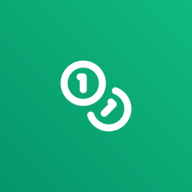
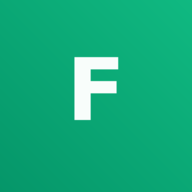
Update app branding and dashboard UI to Felix Network
Replaces all instances of "CashFlow" with "Felix Network" across the UI, updates app icons and logos, removes USD conversion and withdrawal goal from the dashboard, adds a network rank system, and introduces a daily reward section.

Replit-Commit-Author: Agent
Replit-Commit-Session-Id: b8f8f2ea-1e4f-4fec-b09c-0da8768f89b5
Replit-Commit-Checkpoint-Type: full_checkpoint
Replit-Commit-Event-Id: 87573452-b191-4e64-82ae-d17f2248d744
Replit-Commit-Screenshot-Url: https://storage.googleapis.com/screenshot-production-us-central1/0c0255b0-0179-4582-8346-503e3306424b/b8f8f2ea-1e4f-4fec-b09c-0da8768f89b5/lPYRyeK

Changed region(s): [[0.3125, 0.2812, 0.6875, 0.6875]]

diff --git a/client/index.html b/client/index.html
@@ -3,25 +3,25 @@
   <head>
     <meta charset="UTF-8" />
     <meta name="viewport" content="width=device-width, initial-scale=1.0, maximum-scale=1" />
-    <title>CashFlow – Earn • Grow • Reward</title>
-    <meta name="description" content="Watch ads, earn rewards, grow your income daily with CashFlow. Fast, simple, and mobile-friendly." />
+    <title>Felix Network – Earn • Grow • Reward</title>
+    <meta name="description" content="Watch ads, earn rewards, grow your income daily with Felix Network. Fast, simple, and mobile-friendly." />
 
     <!-- Open Graph -->
     <meta property="og:type" content="website" />
     <meta property="og:url" content="https://ad-coin-rewards.vercel.app/" />
-    <meta property="og:title" content="CashFlow – Earn • Grow • Reward" />
-    <meta property="og:description" content="Watch ads, earn rewards, grow your income daily with CashFlow. Fast, simple, and mobile-friendly." />
+    <meta property="og:title" content="Felix Network – Earn • Grow • Reward" />
+    <meta property="og:description" content="Watch ads, earn rewards, grow your income daily with Felix Network. Fast, simple, and mobile-friendly." />
     <meta property="og:image" content="https://ad-coin-rewards.vercel.app/og-banner.jpg" />
     <meta property="og:image:secure_url" content="https://ad-coin-rewards.vercel.app/og-banner.jpg" />
     <meta property="og:image:width" content="1200" />
     <meta property="og:image:height" content="630" />
     <meta property="og:image:type" content="image/jpeg" />
-    <meta property="og:site_name" content="CashFlow" />
+    <meta property="og:site_name" content="Felix Network" />
 
     <!-- Twitter / X -->
     <meta name="twitter:card" content="summary_large_image" />
-    <meta name="twitter:title" content="CashFlow – Earn • Grow • Reward" />
-    <meta name="twitter:description" content="Watch ads, earn rewards, grow your income daily with CashFlow. Fast, simple, and mobile-friendly." />
+    <meta name="twitter:title" content="Felix Network – Earn • Grow • Reward" />
+    <meta name="twitter:description" content="Watch ads, earn rewards, grow your income daily with Felix Network. Fast, simple, and mobile-friendly." />
     <meta name="twitter:image" content="https://ad-coin-rewards.vercel.app/og-banner.jpg" />
 
     <link rel="icon" type="image/png" href="/favicon.png" />
@@ -30,11 +30,11 @@
     <meta name="mobile-web-app-capable" content="yes" />
     <meta name="apple-mobile-web-app-capable" content="yes" />
     <meta name="apple-mobile-web-app-status-bar-style" content="black-translucent" />
-    <meta name="apple-mobile-web-app-title" content="CashFlow" />
+    <meta name="apple-mobile-web-app-title" content="Felix Network" />
     <link rel="apple-touch-icon" href="/icon-192.png" />
     <link rel="preconnect" href="https://fonts.googleapis.com">
     <link rel="preconnect" href="https://fonts.gstatic.com" crossorigin>
-    <link href="https://fonts.googleapis.com/css2?family=Architects+Daughter&family=DM+Sans:ital,opsz,wght@0,9..40,100..1000;1,9..40,100..1000&family=Fira+Code:wght@300..700&family=Geist+Mono:wght@100..900&family=Geist:wght@100..900&family=IBM+Plex+Mono:ital,wght@0,100;0,200;0,300;0,400;0,500;0,600;0,700;1,100;1,200;1,300;1,400;1,500;1,600;1,700&family=IBM+Plex+Sans:ital,wght@0,100..700;1,100..700&family=Inter:ital,opsz,wght@0,14..32,100..900;1,14..32,100..900&family=JetBrains+Mono:ital,wght@0,100..800;1,100..800&family=Libre+Baskerville:ital,wght@0,400;0,700;1,400&family=Lora:ital,wght@0,400..700;1,400..700&family=Merriweather:ital,opsz,wght@0,18..144,300..900;1,18..144,300..900&family=Montserrat:ital,wght@0,100..900;1,100..900&family=Open+Sans:ital,wght@0,300..800;1,300..800&family=Outfit:wght@100..900&family=Oxanium:wght@200..800&family=Playfair+Display:ital,wght@0,400..900;1,400..900&family=Plus+Jakarta+Sans:ital,wght@0,200..800;1,200..800&family=Poppins:ital,wght@0,100;0,200;0,300;0,400;0,500;0,600;0,700;0,800;0,900;1,100;1,200;1,300;1,400;1,500;1,600;1,700;1,800;1,900&family=Roboto+Mono:ital,wght@0,100..700;1,100..700&family=Roboto:ital,wght@0,100..900;1,100..900&family=Source+Code+Pro:ital,wght@0,200..900;1,200..900&family=Source+Serif+4:ital,opsz,wght@0,8..60,200..900;1,8..60,200..900&family=Space+Grotesk:wght@300..700&family=Space+Mono:ital,wght@0,400;0,700;1,400;1,700&display=swap" rel="stylesheet">
+    <link href="https://fonts.googleapis.com/css2?family=Architects+Daughter&family=DM+Sans:ital,opsz,wght@0,9..40,100..1000;1,9..40,100..1000&family=Fira+Code:wght@300..700&family=Geist+Mono:wght@100..900&family=Geist:wght@100..900&family=IBM+Plex+Mono:ital,wght@0,100;0,200;0,300;0,400;0,500;0,600;0,700;1,100;1,200;1,300;1,400;1,500;1,600;1,700&family=IBM+Plex+Sans:ital,wght@0,100..700;1,100..700&family=Inter:ital,opsz,wght@0,14..32,100..900;1,14..32,100..900&family=JetBrains+Mono:ital,wght@0,100..800;1,100..800&family=Libre+Baskerville:ital,wght@0,400;0,700;1,400&family=Lora:ital,wght@0,400..700;1,400..700&family=Merriweather:ital,opsz,wght@0,18..144,300..900;1,18..144,300..900&family=Montserrat:ital,wght@0,100..900;1,100..900&family=Open+Sans:ital,wght@0,300..800;1,300..800&family=Outfit:wght@100..900&family=Oxanium:wght@200..800&family=Playfair+Display:ital,wght@0,400..900;1,400..900&family=Plus+Jakarta+Sans:ital,wght@0,200..800;1,200..800&family=Poppins:ital,wght@0,100;0,200;0,300;0,400;0,500;0,600;0,700;0,800;0,900;1,100;1,200;1,300;1,400;1,500;1,600;1,700;1,800;1,900&family=Roboto+Mono:ital,wght@0,100..700;1,100..700&family=Roboto:ital,wght@0,100..900;1,100..900&family=Source+Code+Pro:ital,opsz,wght@0,200..900;1,200..900&family=Source+Serif+4:ital,opsz,wght@0,8..60,200..900;1,8..60,200..900&family=Space+Grotesk:wght@300..700&family=Space+Mono:ital,wght@0,400;0,700;1,400;1,700&display=swap" rel="stylesheet">
   </head>
   <body>
     <div id="root"></div>

diff --git a/client/src/pages/dashboard.tsx b/client/src/pages/dashboard.tsx
@@ -26,6 +26,8 @@ import {
   ShoppingCart,
   UserCircle,
   Download,
+  Globe,
+  Gift,
 } from "lucide-react";
 import { UserAvatar } from "@/components/user-avatar";
 import { InstallGuideModal } from "@/components/pwa-install-banner";
@@ -142,11 +144,17 @@ export default function Dashboard() {
 
   if (!user) return null;
 
-  const usdtEquivalent = (user.coins / 1000).toFixed(2);
-  const progressToWithdraw = Math.min((user.coins / 10000) * 100, 100);
   const referralLink = `${window.location.origin}/register?ref=${user.referralCode}`;
 
-const shareMessage = `Join CASH FLOW and start mining coins with me! Use my referral link: ${referralLink}`;
+  const getNetworkRank = (coins: number) => {
+    if (coins >= 100000) return { emoji: "💎", label: "Diamond Member" };
+    if (coins >= 50000) return { emoji: "🥇", label: "Gold Member" };
+    if (coins >= 10000) return { emoji: "🥈", label: "Silver Member" };
+    return { emoji: "🥉", label: "Bronze Member" };
+  };
+  const rank = getNetworkRank(user.coins);
+
+const shareMessage = `Join Felix Network and start mining coins with me! Use my referral link: ${referralLink}`;
 
 const whatsappShare = () => {
   window.open(
@@ -160,7 +168,7 @@ const telegramShare = () => {
     `https://t.me/share/url?url=${encodeURIComponent(
       referralLink
     )}&text=${encodeURIComponent(
-      "Join CASH FLOW and start mining with me!"
+      "Join Felix Network and start mining with me!"
     )}`,
     "_blank"
   );
@@ -298,24 +306,17 @@ const telegramShare = () => {
             </div>
 
             <div className="inline-block px-3 py-1 bg-black/20 rounded-full text-sm font-medium text-white/90 backdrop-blur-sm">
-              ≈ ${usdtEquivalent} USDT
+              🪙 Coins
             </div>
           </div>
 
-          <div className="w-full md:w-1/3 bg-black/20 rounded-2xl p-4 backdrop-blur-sm">
-            <div className="flex justify-between text-sm text-white/80 mb-2">
-              <span>Withdrawal Goal</span>
-              <span>10K Coins</span>
+          <div className="bg-black/20 rounded-2xl p-4 backdrop-blur-sm text-center min-w-[148px]">
+            <div className="flex items-center justify-center gap-1.5 text-sm text-white/80 mb-3">
+              <Globe className="w-4 h-4" />
+              <span>Network Rank</span>
             </div>
-
-            <div className="h-2 w-full bg-black/40 rounded-full overflow-hidden">
-              <motion.div
-                initial={{ width: 0 }}
-                animate={{ width: `${progressToWithdraw}%` }}
-                transition={{ duration: 1, delay: 0.5 }}
-                className="h-full bg-accent rounded-full"
-              />
-            </div>
+            <div className="text-3xl mb-1.5">{rank.emoji}</div>
+            <div className="text-sm font-bold text-white">{rank.label}</div>
           </div>
         </div>
       </motion.div>
@@ -360,6 +361,18 @@ const telegramShare = () => {
             </>
           )}
         </div>
+      </div>
+
+      {/* Daily Reward */}
+      <div className="glass-card rounded-3xl p-5 mb-6 flex items-center gap-4">
+        <div className="w-12 h-12 bg-amber-500/20 rounded-2xl flex items-center justify-center text-amber-400 shrink-0">
+          <Gift className="w-6 h-6" />
+        </div>
+        <div className="flex-1">
+          <h3 className="font-semibold text-base">Daily Reward</h3>
+          <p className="text-sm text-muted-foreground">Login daily to earn rewards</p>
+        </div>
+        <div className="text-2xl">🎁</div>
       </div>
 
       <div className="space-y-4">

diff --git a/client/src/pages/whitepaper.tsx b/client/src/pages/whitepaper.tsx
@@ -11,8 +11,8 @@ const sections = [
   {
     icon: Coins,
     color: "text-amber-400 bg-amber-400/10",
-    title: "The CashFlow Solution",
-    body: "CashFlow is a reward-sharing platform that puts the value back in users' hands. Every time a user watches a sponsored ad, the platform shares a portion of the ad revenue directly with them in the form of coins. No surveys, no data selling — just watch and earn.",
+    title: "The Felix Network Solution",
+    body: "Felix Network is a reward-sharing platform that puts the value back in users' hands. Every time a user watches a sponsored ad, the platform shares a portion of the ad revenue directly with them in the form of coins. No surveys, no data selling — just watch and earn.",
   },
   {
     icon: TrendingUp,
@@ -30,7 +30,7 @@ const sections = [
     icon: Users,
     color: "text-purple-400 bg-purple-400/10",
     title: "Referral & Community Growth",
-    body: "CashFlow grows through word of mouth. The referral system is live — users can already share their unique referral link and earn bonus coins when new users sign up successfully using their code. A 2% lifetime commission is awarded on every coin earned by referred users. This referral reward system creates a thriving community of earners who are incentivised to grow the platform together.",
+    body: "Felix Network grows through word of mouth. The referral system is live — users can already share their unique referral link and earn bonus coins when new users sign up successfully using their code. A 2% lifetime commission is awarded on every coin earned by referred users. This referral reward system creates a thriving community of earners who are incentivised to grow the platform together.",
   },
   {
     icon: Globe,
@@ -52,14 +52,14 @@ export default function WhitepaperPage() {
         <div className="w-16 h-16 rounded-2xl bg-gradient-to-br from-primary to-emerald-700 flex items-center justify-center mx-auto mb-4 shadow-lg shadow-primary/30">
           <Coins className="w-8 h-8 text-white" />
         </div>
-        <h1 className="text-3xl font-display font-bold mb-1">CashFlow Whitepaper</h1>
+        <h1 className="text-3xl font-display font-bold mb-1">Felix Network Whitepaper</h1>
         <p className="text-muted-foreground text-sm">v1.0 — March 2026</p>
       </motion.div>
 
       {/* Intro card */}
       <div className="glass-card rounded-3xl p-6 mb-6 border-t border-primary/20">
         <p className="text-sm leading-relaxed text-muted-foreground">
-          <span className="font-semibold text-foreground">CashFlow</span> is a mobile-first,
+          <span className="font-semibold text-foreground">Felix Network</span> is a mobile-first,
           watch-to-earn platform that redistributes digital advertising revenue to everyday users.
           This document outlines our core mission, the reward mechanism, and the roadmap for
           building a sustainable, transparent earning ecosystem.

diff --git a/client/src/components/pwa-install-banner.tsx b/client/src/components/pwa-install-banner.tsx
@@ -48,7 +48,7 @@ export function InstallGuideModal({ platform, onClose }: InstallGuideProps) {
               <Smartphone className="w-5 h-5 text-white" />
             </div>
             <div>
-              <p className="font-bold text-base leading-tight">Install CashFlow</p>
+              <p className="font-bold text-base leading-tight">Install Felix Network</p>
               <p className="text-xs text-muted-foreground">
                 {isIOS ? "Add to your iPhone/iPad" : "Add to your home screen"}
               </p>
@@ -67,7 +67,7 @@ export function InstallGuideModal({ platform, onClose }: InstallGuideProps) {
                 <strong className="text-foreground">"Add to Home Screen"</strong>
               </GuideStep>
               <GuideStep number={3} icon={<Smartphone className="w-4 h-4" />}>
-                Tap <strong className="text-foreground">"Add"</strong> — done! CashFlow will appear on your home screen.
+                Tap <strong className="text-foreground">"Add"</strong> — done! Felix Network will appear on your home screen.
               </GuideStep>
               <p className="text-[10px] text-muted-foreground text-center pt-1">
                 ⚠ This only works in Safari on iOS. Not in Chrome or Firefox.
@@ -76,7 +76,7 @@ export function InstallGuideModal({ platform, onClose }: InstallGuideProps) {
           ) : (
             <div className="space-y-3.5">
               <p className="text-sm text-muted-foreground leading-relaxed">
-                To install CashFlow on your device:
+                To install Felix Network on your device:
               </p>
               <GuideStep number={1} icon={<Download className="w-4 h-4" />}>
                 Open this page in <strong className="text-foreground">Chrome</strong> on Android
@@ -168,7 +168,7 @@ export function PWAInstallBanner() {
                 <Smartphone className="w-5 h-5 text-white" />
               </div>
               <div className="flex-1 min-w-0">
-                <p className="font-semibold text-sm leading-tight">Install CashFlow</p>
+                <p className="font-semibold text-sm leading-tight">Install Felix Network</p>
                 <p className="text-[11px] text-muted-foreground mt-0.5">
                   Add to home screen for the best experience
                 </p>

diff --git a/client/src/pages/faq.tsx b/client/src/pages/faq.tsx
@@ -21,7 +21,7 @@ const faqs = [
   },
   {
     q: "What happens if I refresh the page during a watch?",
-    a: "If you refresh or navigate away before the 15-second timer finishes, the session is cancelled and no coins will be awarded. The ad will still open in the new tab, but you need to keep the CashFlow Watch page open for the full 15 seconds to earn.",
+    a: "If you refresh or navigate away before the 15-second timer finishes, the session is cancelled and no coins will be awarded. The ad will still open in the new tab, but you need to keep the Felix Network Watch page open for the full 15 seconds to earn.",
   },
   {
     q: "How does the Referral program work?",
@@ -84,7 +84,7 @@ export default function FAQPage() {
         </div>
         <h1 className="text-3xl font-display font-bold mb-2">FAQs</h1>
         <p className="text-muted-foreground text-sm">
-          Everything you need to know about CashFlow
+          Everything you need to know about Felix Network
         </p>
       </div>
 

diff --git a/client/src/pages/login.tsx b/client/src/pages/login.tsx
@@ -30,7 +30,7 @@ export default function Login() {
           <div className="w-16 h-16 bg-gradient-to-tr from-primary to-emerald-700 rounded-2xl flex items-center justify-center shadow-lg shadow-primary/30 mb-6 rotate-12">
             <Coins className="w-8 h-8 text-white -rotate-12" />
           </div>
-          <h1 className="text-4xl font-display font-bold text-gradient-primary">CashFlow</h1>
+          <h1 className="text-4xl font-display font-bold text-gradient-primary">Felix Network</h1>
           <p className="text-muted-foreground mt-2">Welcome back! Ready to earn?</p>
         </div>
 

diff --git a/client/src/pages/kyc.tsx b/client/src/pages/kyc.tsx
@@ -65,7 +65,7 @@ export default function KYCPage() {
         <p className="text-sm text-muted-foreground leading-relaxed">
           KYC (Know Your Customer) is a standard compliance requirement for any platform that
           handles real money or cryptocurrency payouts. It protects legitimate users from fraud,
-          ensures every withdrawal goes to a verified account, and keeps the CashFlow platform
+          ensures every withdrawal goes to a verified account, and keeps the Felix Network platform
           sustainable and trustworthy for everyone.
         </p>
       </div>

diff --git a/client/src/components/layout/auth-guard.tsx b/client/src/components/layout/auth-guard.tsx
@@ -18,7 +18,7 @@ export function AuthGuard({ children }: { children: React.ReactNode }) {
     return (
       <div className="min-h-screen bg-background flex flex-col items-center justify-center">
         <Loader2 className="w-12 h-12 text-primary animate-spin" />
-        <p className="mt-4 text-muted-foreground font-medium animate-pulse">Loading CashFlow...</p>
+        <p className="mt-4 text-muted-foreground font-medium animate-pulse">Loading Felix Network...</p>
       </div>
     );
   }

diff --git a/client/src/pages/market.tsx b/client/src/pages/market.tsx
@@ -232,7 +232,7 @@ export default function MarketPage() {
             <h1 className="text-2xl font-display font-bold">Coin Market</h1>
             <ComingSoonBadge />
           </div>
-          <p className="text-sm text-muted-foreground">Buy, sell, and trade CashFlow coins</p>
+          <p className="text-sm text-muted-foreground">Buy, sell, and trade Felix Network coins</p>
         </div>
       </div>
 

diff --git a/client/src/pages/register.tsx b/client/src/pages/register.tsx
@@ -53,7 +53,7 @@ export default function Register() {
             <Coins className="w-8 h-8 text-white rotate-12" />
           </div>
           <h1 className="text-3xl md:text-4xl font-display font-bold text-white">
-            Join CashFlow
+            Join Felix Network
           </h1>
           <p className="text-muted-foreground mt-2">
             Start earning coins today.

diff --git a/client/src/pages/referral.tsx b/client/src/pages/referral.tsx
@@ -54,7 +54,7 @@ export default function ReferralPage() {
   const handleShare = () => {
     if (navigator.share) {
       navigator.share({
-        title: "Join CashFlow & Earn!",
+        title: "Join Felix Network & Earn!",
         text: `Use my referral code ${user?.referralCode} to sign up and start earning coins!`,
         url: referralLink,
       });

diff --git a/client/public/service-worker.js b/client/public/service-worker.js
@@ -1,4 +1,4 @@
-const CACHE_NAME = "cashflow-v3";
+const CACHE_NAME = "felix-network-v1";
 const STATIC_ASSETS = [
   "/",
   "/manifest.json",
